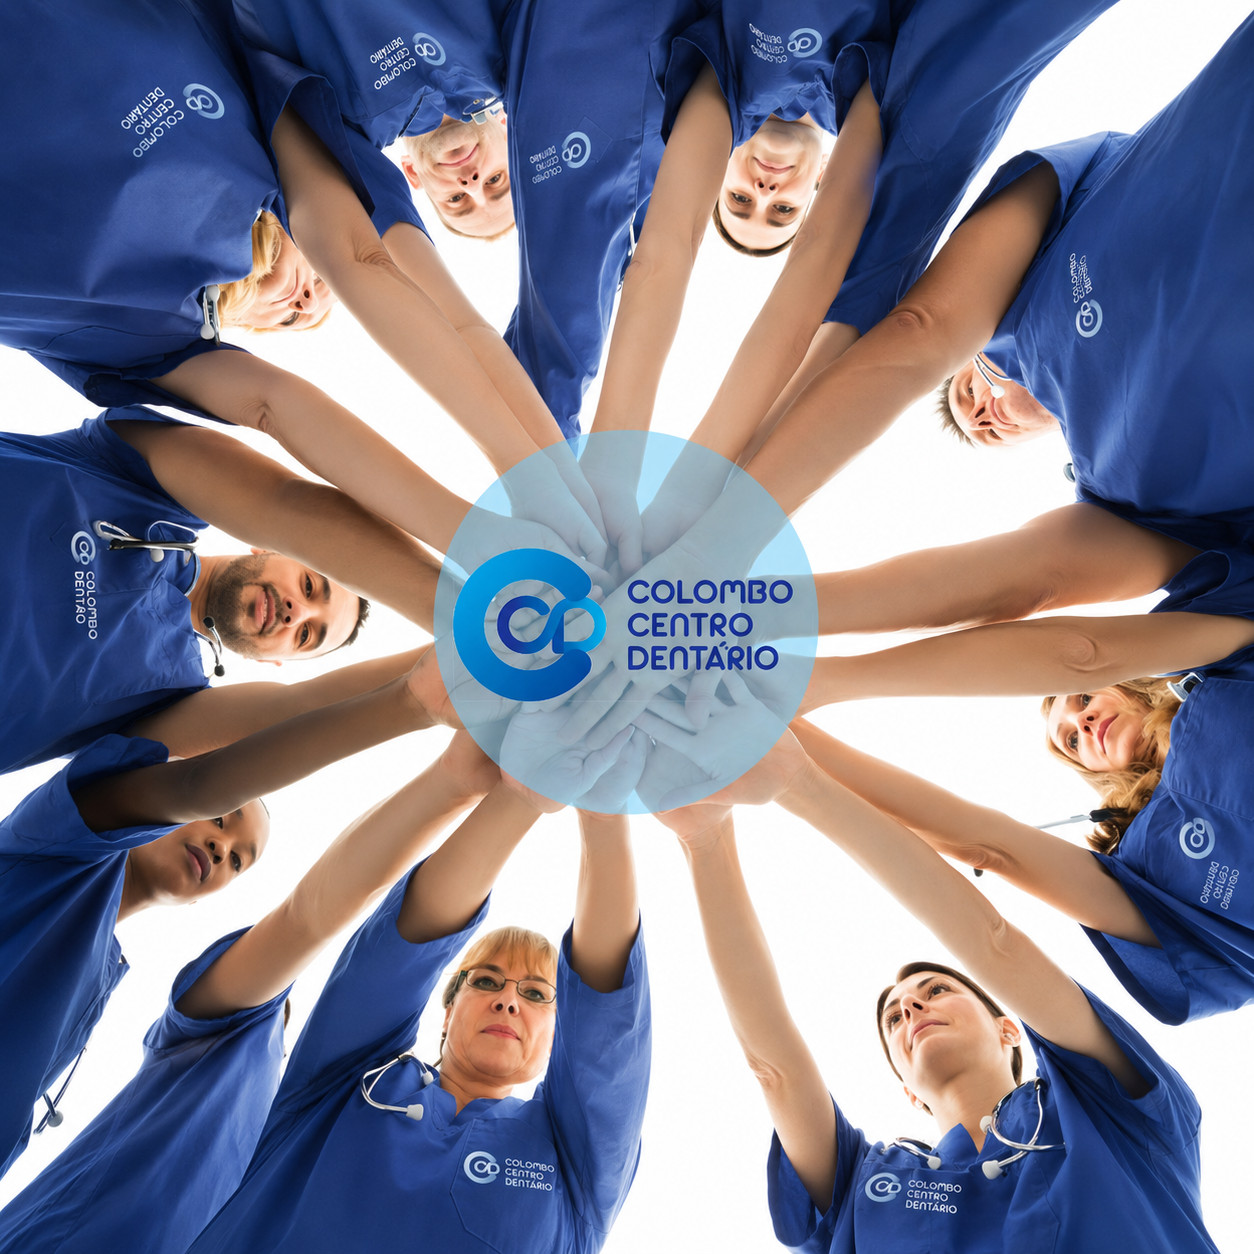
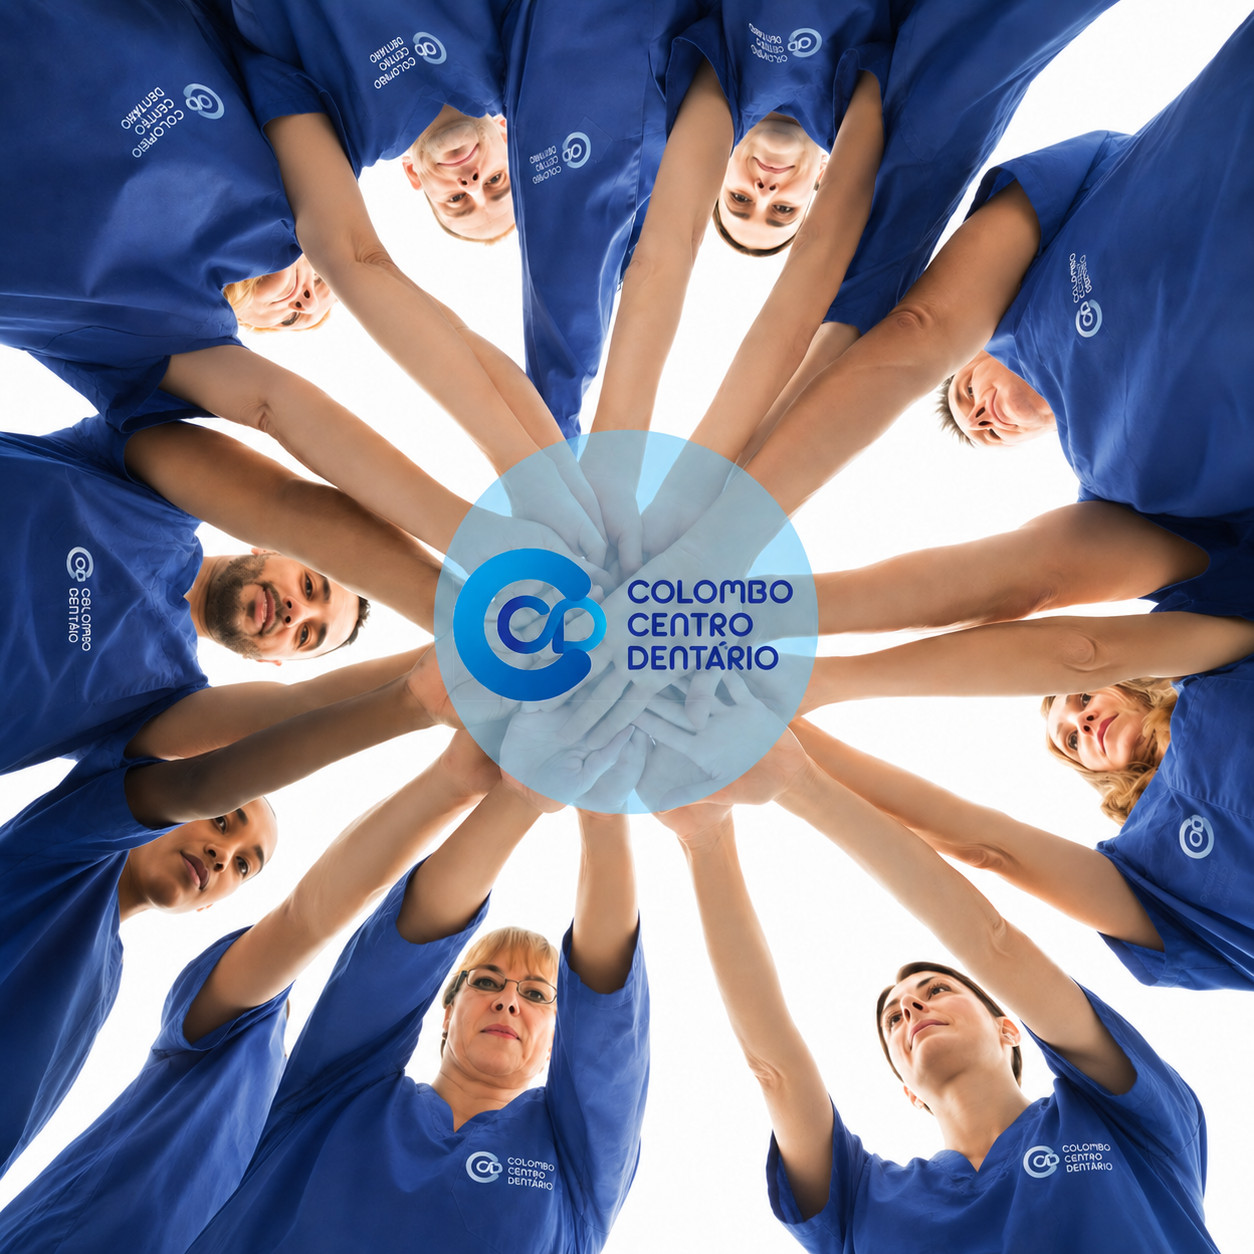
images updated

diff --git a/client/src/pages/TreatmentPage.tsx b/client/src/pages/TreatmentPage.tsx
@@ -15,9 +15,10 @@ import { getWhatsAppUrl } from '../utils/whatsapp';
 // ============================================
 // Variantes otimizadas do banner
 // Geradas em /public/images/banners/ a partir da imagem original:
-//   {nome}-desktop.webp → 1920×640 (≈3:1, altura real do hero em desktop)
-//   {nome}-mobile.webp  → 864×1080 (4:5, altura real do hero em mobile)
-//   {nome}-card.webp    → 800×450 (cartões de tratamentos relacionados)
+//   {nome}-desktop.jpg  → panorâmico 24:7 (ex.: 2880×840), rácio
+//                         idêntico ao contentor md:h-[560px] a 1920px
+//   {nome}-card.webp    → 800×450 (16:9) — banner mobile e cartões
+//                         de tratamentos relacionados
 // ============================================
 function getBannerVariants(bannerImage: string) {
   if (!bannerImage.startsWith('/images/')) return null;
@@ -25,7 +26,7 @@ function getBannerVariants(bannerImage: string) {
     .replace('/images/', '')
     .replace(/\.(jpg|jpeg|png|webp)$/i, '');
   return {
-    desktop: `/images/banners/${base}-desktop.webp`,
+    desktop: `/images/banners/${base}-desktop.jpg`,
     mobile: `/images/banners/${base}-mobile.webp`,
     card: `/images/banners/${base}-card.webp`,
   };
@@ -232,20 +233,25 @@ export default function TreatmentPage() {
 
       {/* Navbar vem do Layout. */}
 
-      {/* Hero Banner — única imagem da página.
+      {/* Hero Banner — imagem limpa, sem gradientes nem texto sobreposto.
           Serve recortes otimizados por breakpoint via <picture>:
-          desktop 1920×640 (≈3:1) e mobile 864×1080 (4:5), com fallback
-          para a imagem original caso as variantes não existam. */}
+          desktop panorâmico 24:7 (.jpg) e mobile usa a variante card 800×450
+          (16:9), com fallback para a imagem original caso as variantes
+          não existam. Todo o conteúdo textual vive ABAIXO do banner. */}
       <section className='pt-20'>
-        <div className='relative h-[460px] md:h-[560px] overflow-hidden'>
+        {/* aspect-ratio espelha o recorte servido em cada breakpoint:
+            mobile 16:9 (card 800×450) e desktop 3:1 (1920×640).
+            Com o rácio do contentor igual ao da imagem, o object-cover
+            nunca corta conteúdo visual — em nenhuma largura de ecrã. */}
+        <div className='relative w-full overflow-hidden aspect-video md:aspect-[3/1]'>
           {bannerVariants ? (
             <picture>
               <source
                 media='(min-width: 768px)'
                 srcSet={bannerVariants.desktop}
-                type='image/webp'
+                type='image/jpeg'
               />
-              <source srcSet={bannerVariants.mobile} type='image/webp' />
+              <source srcSet={bannerVariants.card} type='image/webp' />
               <img
                 src={treatment.bannerImage}
                 alt={treatment.title}
@@ -261,56 +267,50 @@ export default function TreatmentPage() {
               fetchPriority='high'
             />
           )}
-          {/* Gradiente reforçado à esquerda para legibilidade do texto */}
-          <div className='absolute inset-0 bg-gradient-to-t from-black/85 via-black/45 to-black/10'></div>
-          <div className='absolute inset-0 bg-gradient-to-r from-black/40 to-transparent'></div>
+        </div>
 
-          {/* Conteúdo do hero */}
-          <div className='absolute bottom-0 left-0 right-0 p-8 md:p-12'>
-            <div className='max-w-7xl mx-auto'>
-              {/* Breadcrumb visível — orientação e SEO */}
-              <nav
-                aria-label='Breadcrumb'
-                className='mb-4 text-sm text-white/70'
-              >
-                <ol className='flex flex-wrap items-center gap-2'>
-                  <li>
-                    <Link to='/' className='hover:text-white transition'>
-                      {t('treatmentPage.breadcrumbHome')}
-                    </Link>
-                  </li>
-                  <li aria-hidden='true'>/</li>
-                  <li>
-                    <a
-                      href='/#tratamentos'
-                      className='hover:text-white transition'
-                    >
-                      {t('treatmentPage.breadcrumbTreatments')}
-                    </a>
-                  </li>
-                  <li aria-hidden='true'>/</li>
-                  <li className='text-white font-medium'>{treatment.title}</li>
-                </ol>
-              </nav>
+        {/* Cabeçalho do tratamento — abaixo do banner, sobre fundo branco */}
+        <div className='bg-white border-b border-gray-100'>
+          <div className='max-w-7xl mx-auto px-4 py-8 md:py-12'>
+            {/* Breadcrumb visível — orientação e SEO */}
+            <nav aria-label='Breadcrumb' className='mb-4 text-sm text-gray-500'>
+              <ol className='flex flex-wrap items-center gap-2'>
+                <li>
+                  <Link to='/' className='hover:text-blue-600 transition'>
+                    {t('treatmentPage.breadcrumbHome')}
+                  </Link>
+                </li>
+                <li aria-hidden='true'>/</li>
+                <li>
+                  <a
+                    href='/#tratamentos'
+                    className='hover:text-blue-600 transition'
+                  >
+                    {t('treatmentPage.breadcrumbTreatments')}
+                  </a>
+                </li>
+                <li aria-hidden='true'>/</li>
+                <li className='text-gray-900 font-medium'>{treatment.title}</li>
+              </ol>
+            </nav>
 
-              <p className='text-sm md:text-base font-semibold uppercase tracking-wider text-blue-300 mb-3'>
-                {treatment.title}
-              </p>
-              <h1 className='text-3xl md:text-5xl lg:text-6xl font-bold text-white mb-4 max-w-4xl'>
-                {treatment.hero.title}
-              </h1>
-              <p className='text-lg md:text-xl text-white/90 max-w-3xl mb-6'>
-                {treatment.hero.subtitle}
-              </p>
-              <a
-                href={whatsAppHref}
-                target='_blank'
-                rel='noopener noreferrer'
-                className='inline-flex items-center bg-blue-600 text-white px-8 py-4 rounded-full hover:bg-blue-700 hover:scale-[1.02] transition text-lg font-semibold shadow-lg'
-              >
-                {treatment.hero.cta}
-              </a>
-            </div>
+            <p className='text-sm md:text-base font-semibold uppercase tracking-wider text-blue-600 mb-3'>
+              {treatment.title}
+            </p>
+            <h1 className='text-3xl md:text-5xl lg:text-6xl font-bold text-gray-900 mb-4 max-w-4xl'>
+              {treatment.hero.title}
+            </h1>
+            <p className='text-lg md:text-xl text-gray-600 max-w-3xl mb-6'>
+              {treatment.hero.subtitle}
+            </p>
+            <a
+              href={whatsAppHref}
+              target='_blank'
+              rel='noopener noreferrer'
+              className='inline-flex items-center bg-blue-600 text-white px-8 py-4 rounded-full hover:bg-blue-700 hover:scale-[1.02] transition text-lg font-semibold shadow-lg'
+            >
+              {treatment.hero.cta}
+            </a>
           </div>
         </div>
       </section>

diff --git a/client/src/components/Footer.tsx b/client/src/components/Footer.tsx
@@ -24,10 +24,6 @@ export default function Footer() {
                 src='/logo-colombo-nav.png'
                 alt='Centro Dentário Colombo'
                 className='h-14 w-auto'
-                style={{
-                  filter: 'grayscale(100%) brightness(200%) contrast(100%)',
-                  mixBlendMode: 'screen',
-                }}
               />
             </Link>
             <p className='mt-4 text-gray-400 leading-relaxed max-w-sm'>
@@ -37,22 +33,7 @@ export default function Footer() {
             {/* Social Media */}
             <div className='flex items-center gap-4 mt-6'>
               <a
-                href='https://www.facebook.com/centrodentariocolombo'
-                target='_blank'
-                rel='noopener noreferrer'
-                className='w-10 h-10 bg-gray-800 hover:bg-blue-600 rounded-full flex items-center justify-center transition-colors duration-300'
-                aria-label='Facebook'
-              >
-                <svg
-                  className='w-5 h-5 text-white'
-                  fill='currentColor'
-                  viewBox='0 0 24 24'
-                >
-                  <path d='M24 12.073c0-6.627-5.373-12-12-12s-12 5.373-12 12c0 5.99 4.388 10.954 10.125 11.854v-8.385H7.078v-3.47h3.047V9.43c0-3.007 1.792-4.669 4.533-4.669 1.312 0 2.686.235 2.686.235v2.953H15.83c-1.491 0-1.956.925-1.956 1.874v2.25h3.328l-.532 3.47h-2.796v8.385C19.612 23.027 24 18.062 24 12.073z' />
-                </svg>
-              </a>
-              <a
-                href='https://www.instagram.com/centrodentario_colombo'
+                href='https://www.instagram.com/colombo_centrodentario/'
                 target='_blank'
                 rel='noopener noreferrer'
                 className='w-10 h-10 bg-gray-800 hover:bg-gradient-to-br hover:from-purple-600 hover:via-pink-500 hover:to-orange-400 rounded-full flex items-center justify-center transition-all duration-300'

diff --git a/client/src/pages/PoliticaCookiesPage.tsx b/client/src/pages/PoliticaCookiesPage.tsx
@@ -494,22 +494,7 @@ export default function PoliticaCookiesPage() {
               </p>
               <div className='flex gap-4'>
                 <a
-                  href='https://www.facebook.com/centrodentariocolombo'
-                  target='_blank'
-                  rel='noopener noreferrer'
-                  className='flex items-center gap-2 bg-blue-600 text-white px-4 py-2 rounded-lg hover:bg-blue-700 transition'
-                >
-                  <svg
-                    className='w-5 h-5'
-                    fill='currentColor'
-                    viewBox='0 0 24 24'
-                  >
-                    <path d='M24 12.073c0-6.627-5.373-12-12-12s-12 5.373-12 12c0 5.99 4.388 10.954 10.125 11.854v-8.385H7.078v-3.47h3.047V9.43c0-3.007 1.792-4.669 4.533-4.669 1.312 0 2.686.235 2.686.235v2.953H15.83c-1.491 0-1.956.925-1.956 1.874v2.25h3.328l-.532 3.47h-2.796v8.385C19.612 23.027 24 18.062 24 12.073z' />
-                  </svg>
-                  Facebook
-                </a>
-                <a
-                  href='https://www.instagram.com/centrodentario_colombo'
+                  href='https://www.instagram.com/colombo_centrodentario/'
                   target='_blank'
                   rel='noopener noreferrer'
                   className='flex items-center gap-2 bg-gradient-to-r from-purple-600 via-pink-500 to-orange-400 text-white px-4 py-2 rounded-lg hover:opacity-90 transition'

diff --git a/client/src/index.css b/client/src/index.css
@@ -24,6 +24,21 @@
   box-sizing: border-box;
 }
 
+/* ============================================
+   FIX — OVERFLOW HORIZONTAL EM MOBILE
+   As animações .reveal-left/.reveal-right deslocam
+   elementos 32px para fora do viewport antes de
+   entrarem, alargando a página e criando uma
+   "sobra" na margem direita em mobile.
+   overflow-x: clip corta sem criar scroll lateral
+   (hidden fica como fallback para browsers antigos).
+============================================ */
+html,
+body {
+  overflow-x: hidden;
+  overflow-x: clip;
+}
+
 body {
   margin: 0;
   min-width: 320px;

diff --git a/client/src/components/JsonLd.tsx b/client/src/components/JsonLd.tsx
@@ -64,11 +64,7 @@ export function OrganizationJsonLd() {
       { '@type': 'City', name: 'Amadora' },
       { '@type': 'City', name: 'Loures' },
     ],
-    sameAs: [
-      business.socialMedia.facebook,
-      business.socialMedia.instagram,
-      business.socialMedia.googleMaps,
-    ],
+    sameAs: [business.socialMedia.instagram, business.socialMedia.googleMaps],
     medicalSpecialty: [
       'Implantology',
       'Orthodontics',

diff --git a/client/src/utils/seoConfig.ts b/client/src/utils/seoConfig.ts
@@ -61,8 +61,7 @@ export const SITE_CONFIG = {
     ersLicense: '3297/2011',
     ersRegistration: 'E115139',
     socialMedia: {
-      facebook: 'https://www.facebook.com/centrodentariocolombo',
-      instagram: 'https://www.instagram.com/centrodentario_colombo',
+      instagram: 'https://www.instagram.com/colombo_centrodentario/',
       googleMaps: 'https://maps.google.com/?cid=3260960382060429767',
     },
   },
